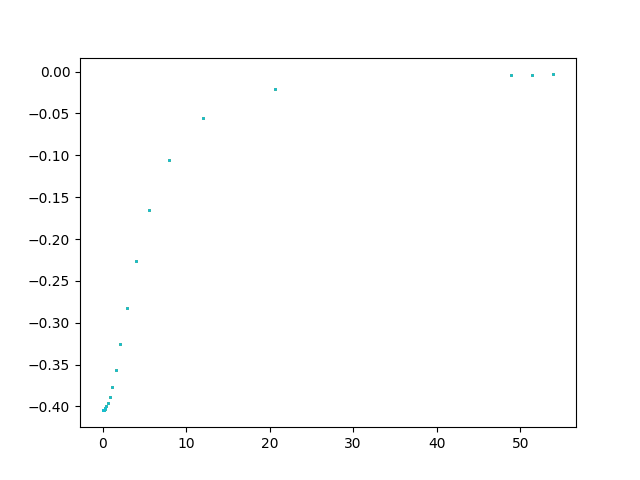
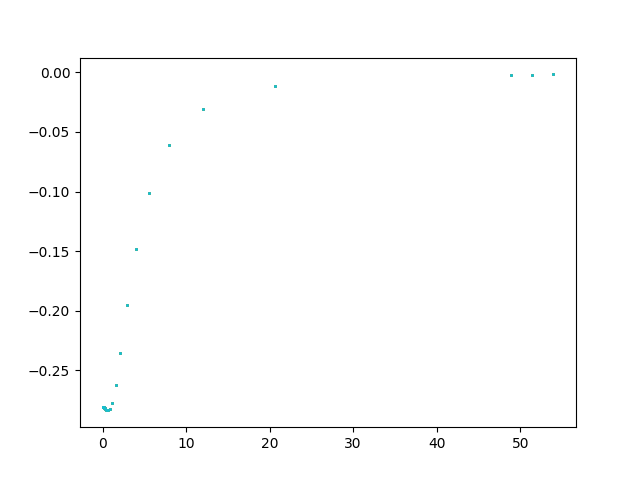
theta with zet & scf 3

diff --git a/theory/Eliashberg/elishberg_2/debug/main_faeb_rewrite.py b/theory/Eliashberg/elishberg_2/debug/main_faeb_rewrite.py
@@ -22,7 +22,7 @@ class parameters:
         self.fmc_max  = 0.05
         self.fmc_min  = 0.0
         self.nfmc  = 1
-        self.nscf = 2
+        self.nscf = 3
 
 class irfunc:
     def __init__(self, Lambda, beta, eps=1e-7):
